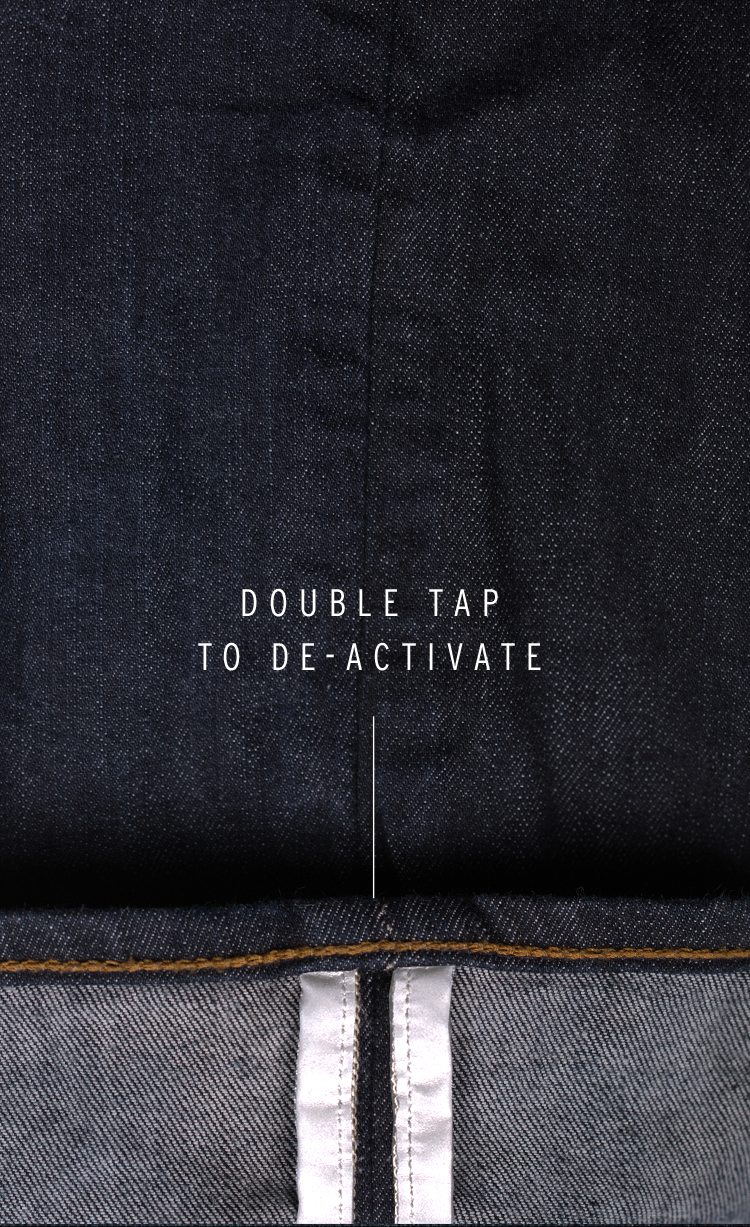
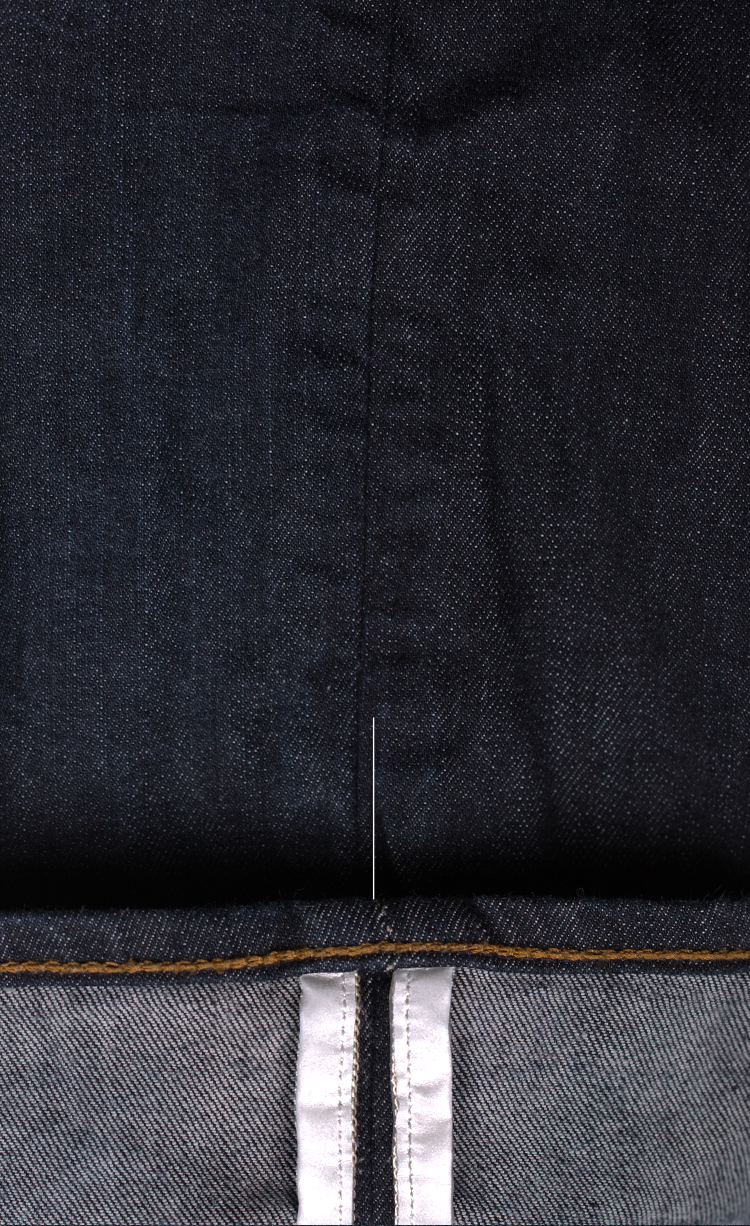
Add files via upload

Changed region(s): [[0.0, 0.0, 1.0, 0.6819], [0.0, 0.7129, 1.0, 1.0]]

diff --git a/result.js b/result.js
@@ -7,14 +7,14 @@ $(function() {
 //pants slider swiper
 var typeLabel = ['501 Straight 1','501 Straight 2','501 Straight 3','501 Straight 1'];
 var mySwiper = new Swiper ('.swiper-container', {
-    loop: true,
-    effect: 'flip',
-    nextButton: '.swiper-button-next',
-    prevButton: '.swiper-button-prev',
-    onSlideChangeEnd : function(swiperHere) {
-    	var index = parseInt($('.swiper-wrapper .swiper-slide-active').data('swiper-slide-index'));
-    	$('.type-label').text(typeLabel[index]);
-    },
+	loop: true,
+	effect: 'flip',
+	nextButton: '.swiper-button-next',
+	prevButton: '.swiper-button-prev',
+	onSlideChangeEnd : function(swiperHere) {
+		var index = parseInt($('.swiper-wrapper .swiper-slide-active').data('swiper-slide-index'));
+		$('.type-label').text(typeLabel[index]);
+	},
 });
 
 var swiperColorB = new Swiper ('.swiper-container-color-b', {
@@ -128,6 +128,25 @@ $(".button-clicks a").on("click", function(event){
 	event.preventDefault();
 	swiperButton.slideTo($(this).data("index"));
 });
+
+//3m
+
+var swiperM3 = new Swiper ('.swiper-container-m3', {
+	loop: true,
+	effect: 'fade'
+});
+var active = true;
+$(".m3-text").on("click", function(event){
+	swiperM3.slideNext();
+	active = !active;
+	if(active) {
+		$(this).html('DOUBLE TAP <br> TO DE-ACTIVATE');
+	}else {
+		$(this).html('DOUBLE TAP <br> TO ACTIVATE');
+
+	}
+});
+
 
 
 

diff --git a/result.html b/result.html
@@ -192,7 +192,14 @@
 		<div id="m3">
 			<div class="section-header">
 				<h3>3M LINING</h3>
-				<span>Short explanation of what this is and how we chose it for you. This is because you’re a fucking rockstar</span>
+			</div>
+			<div class="m3-text">DOUBLE TAP <br> TO <span>DE-ACTIVATE</span></div>
+			<!-- Swiper -->
+			<div class="swiper-container-m3">
+				<div class="swiper-wrapper">
+					<div class="swiper-slide"><img width="375" height="162" src="images/m3_1.png"></div>
+					<div class="swiper-slide"><img width="375" height="162" src="images/m3_2.png"></div>
+				</div>
 			</div>
 
 		</div>

diff --git a/result.css b/result.css
@@ -424,6 +424,18 @@ body {
 		background: url(images/3m_bg.png) no-repeat;
 		background-size: contain;
 	}
+	.swiper-container-m3 {
+		margin-top: 451px;
+	}
+	.m3-text {
+		color: #fff;
+		font-weight: 100;
+		letter-spacing: 5px;
+		text-align: center;
+		top: 300px;
+		position: absolute;
+		width: 375px;
+	}
 
 	/*tab*/
 	#tab {
